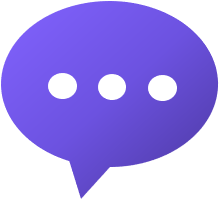
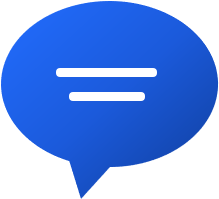
로고 변경 및 아이콘 사이즈 조정

diff --git a/views/v2/main/index.html b/views/v2/main/index.html
@@ -612,21 +612,21 @@
                         </colgroup>
                         <tbody>
                             <tr>
-                                <td><image src="/static/img/hash_1.png"></image>
+                                <td><img src="/static/img/hash_1.png"></img>
                                     <a href="/etc-sells?category=etc&trade_type=sell&category1=여성의류"><span><font style="color:black">여성의류</font></span></a></td>
-                                <td><image src="/static/img/hash_2.png"></image>
+                                <td><img src="/static/img/hash_2.png"></img>
                                     <a href="/etc-sells?category=etc&trade_type=sell&category1=남성의류"><span><font style="color:black">남성의류</font></span></a></td>
                             </tr>
                             <tr>
-                                <td><image src="/static/img/hash_3.png"></image>
+                                <td><img src="/static/img/hash_3.png"></img>
                                     <a href="/etc-sells?category=etc&trade_type=sell&category1=패션잡화"><span><font style="color:black">패션잡화</font></span></a></td>
-                                <td><image src="/static/img/hash_4.png"></image>
+                                <td><img src="/static/img/hash_4.png"></img>
                                     <a href="/etc-sells?category=etc&trade_type=sell&category1=뷰티/미용"><span><font style="color:black">뷰티/미용</font></span></a></td>
                             </tr>
                             <tr>
-                                <td><image src="/static/img/hash_5.png"></image>
+                                <td><img src="/static/img/hash_5.png"></img>
                                     <a href="/etc-sells?category=etc&trade_type=sell&category1=유아동/출산"><span><font style="color:black">유아동/출산</font></span></a></td>
-                                <td><image src="/static/img/hash_6.png"></image>
+                                <td><img src="/static/img/hash_6.png"></img>
                                     <a href="/etc-sells?category=etc&trade_type=sell&category1=스포츠/레저"><span><font style="color:black">스포츠/레저</font></span></a></td>
                             </tr>
                         </tbody>
@@ -643,21 +643,21 @@
                         </colgroup>
                         <tbody>
                             <tr>
-                                <td><image src="/static/img/hash_7.png"></image>
+                                <td><img src="/static/img/hash_7.png"></img>
                                     <a href="/etc-sells?category=etc&trade_type=sell&category1=디지털/가전"><span><font style="color:black">디지털/가전</font></span></a></td>
-                                <td><image src="/static/img/hash_8.png"></image>
+                                <td><img src="/static/img/hash_8.png"></img>
                                     <a href="/etc-sells?category=etc&trade_type=sell&category1=생활/가구"><span><font style="color:black">생활/가구</font></span></a></td>
                             </tr>
                             <tr>
-                                <td><image src="/static/img/hash_9.png"></image>
+                                <td><img src="/static/img/hash_9.png"></img>
                                     <a href="/etc-sells?category=etc&trade_type=sell&category1=도서/티켓"><span><font style="color:black">도서/티켓</font></span></a></td>
-                                <td><image src="/static/img/hash_10.png"></image>
+                                <td><img src="/static/img/hash_10.png"></img>
                                     <a href="/etc-sells?category=etc&trade_type=sell&category1=취미/애완"><span><font style="color:black">취미/애완</font></span></a></td>
                             </tr>
                             <tr>
-                                <td><image src="/static/img/hash_11.png"></image>
+                                <td><img src="/static/img/hash_11.png"></img>
                                     <a href="/etc-sells?category=etc&trade_type=sell&category1=문구/키덜트"><span><font style="color:black">문구/키덜트</font></span></a></td>
-                                <td><image src="/static/img/hash_12.png"></image>
+                                <td><img src="/static/img/hash_12.png"></img>
                                     <a href="/etc-sells?category=etc&trade_type=sell&category1=차량/용품"><span><font style="color:black">차량/용품</font></span></a></td>
                             </tr>
                         </tbody>

diff --git a/public/static/css/common.css b/public/static/css/common.css
@@ -348,7 +348,7 @@ select{-webkit-appearance: none; -webkit-border-radius: 0px; -moz-appearance: no
 
 .table_hashtag {width: 100%; margin: 0px 0px 0px 0px;}
 .table_hashtag td {border: 1px solid lightgray; line-height: 30px;height: 30px;font-size: 13px;font-weight: 500;padding-left: 20px;}
-.table_hashtag image {width:18px;}
+.table_hashtag img {width:18px !important;}
 
 /* horizen image 100% banner*/
 .w100p_banner{max-width: 1200px; margin: 30px auto 30px;}
